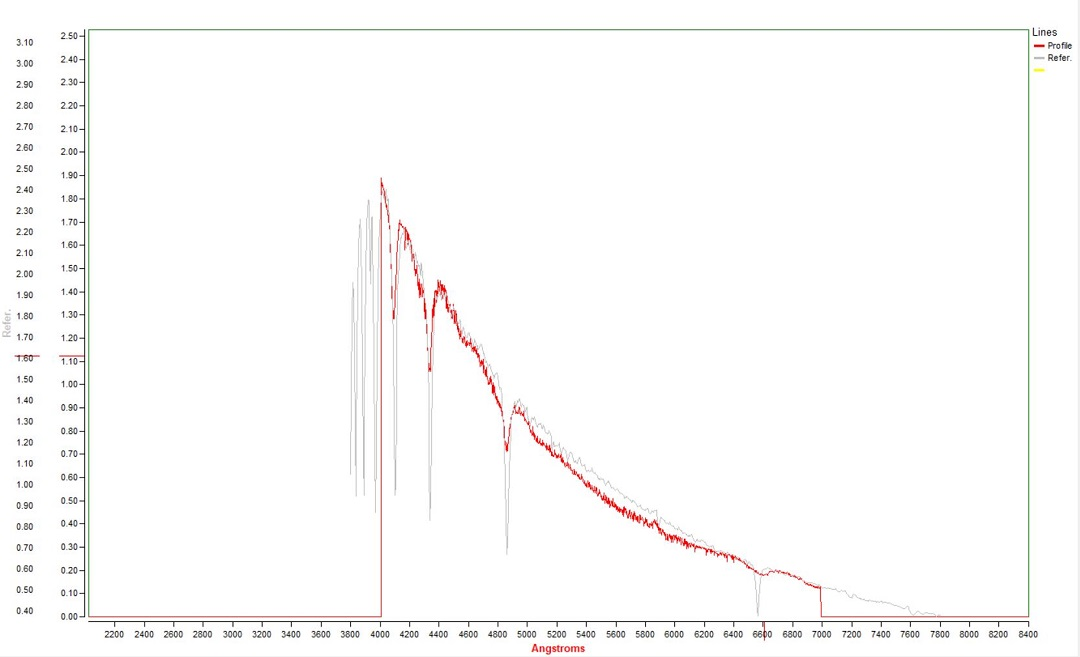
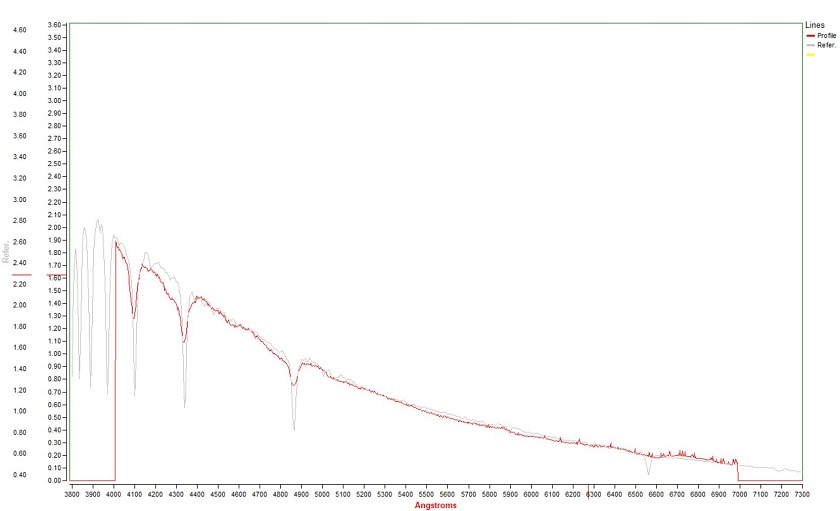
update

diff --git a/observation.html b/observation.html
@@ -379,7 +379,7 @@ print 'It took ' + i + ' iterations to sort the deck.';</code></pre>
 										<iframe width="560" height="315" src="https://www.youtube.com/embed/hmhurwzuF8A" frameborder="0" allow="accelerometer; autoplay=1; encrypted-media; gyroscope; picture-in-picture" allowfullscreen></iframe>
 
 										<h5>Spectrograph Lab</h5>
-										<p><span class="image right"><img src="images/spec.JPG" alt="" /></span> </p>
+										<p><span class="image right"><img src="images/spec.JPG" alt="" /></span> The plot shows the spectrum of Sulafat taken with SA200 slit-less grating, corrected for instrument response and a linear dispersion. The red line is the data with the non-visible range excluded, and the grey line is a template spectrum of B9III star.</p>
 
 									</section>
 
